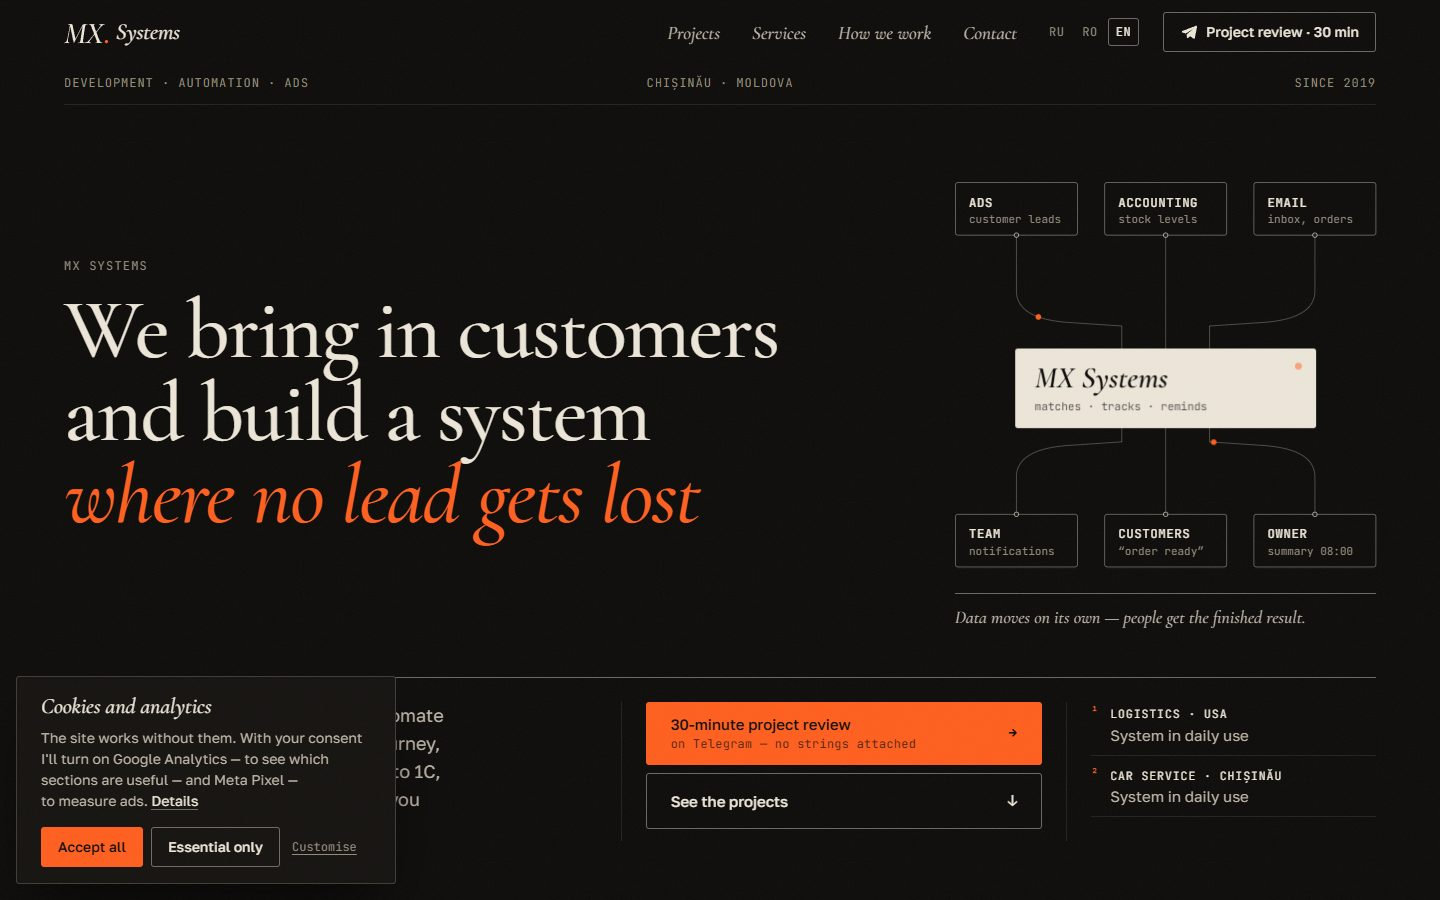
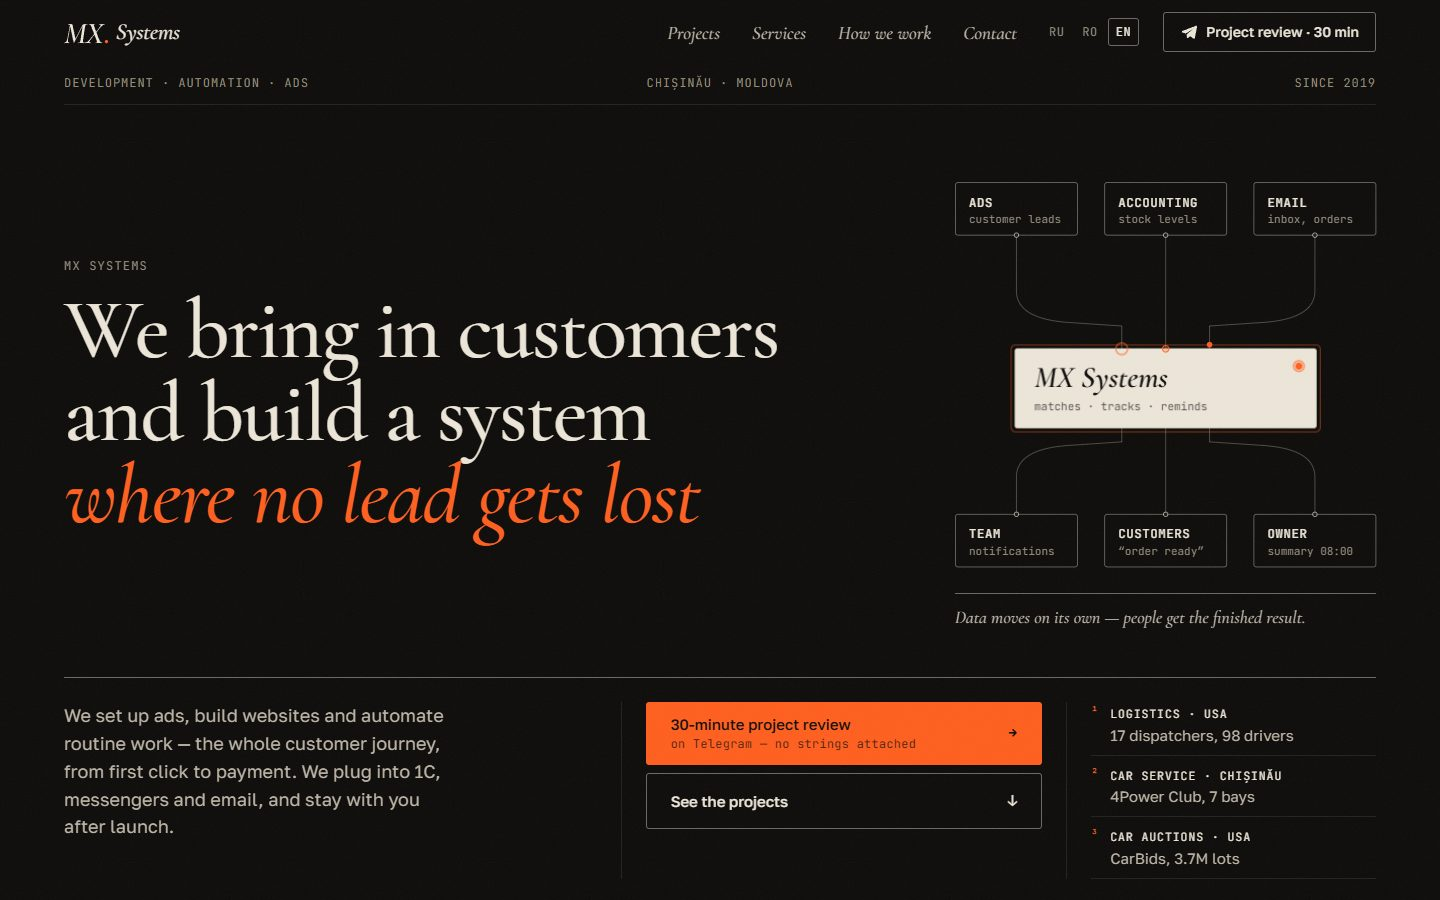
Проверки после правок: seo_check 0 ошибок, сверка содержимого, Lighthouse 99/100, новые скриншоты и compare.html, DECISIONS п. 33–37

diff --git a/docs/screens/compare.html b/docs/screens/compare.html
@@ -15,6 +15,7 @@
 <body>
   <header>
     <h1>MX Systems — старая и новая версии</h1>
+    <p class="upd">Новые скриншоты обновлены 26.10.2026: живая схема (снимок — кадр анимации), три сноски, доска 4Power на телефоне, без cookie-баннера (нет ID счётчиков).</p>
     <div class="bar">
       <div class="group" data-k="lang"><button data-v="ru" class="on">RU</button><button data-v="ro">RO</button><button data-v="en">EN</button></div>
       <div class="group" data-k="dev"><button data-v="desktop" class="on">Десктоп 1440</button><button data-v="mobile">Телефон 390</button></div>

diff --git a/docs/screens/compare.css b/docs/screens/compare.css
@@ -2,6 +2,7 @@
 body { margin: 0; background: #0d0c0a; color: #ece5d8; font: 15px/1.4 system-ui, sans-serif; }
 header { position: sticky; top: 0; z-index: 2; padding: 12px 20px; background: #15130f; border-bottom: 1px solid #333; }
 h1 { margin: 0 0 10px; font-size: 18px; font-weight: 500; }
+.upd { margin: 0 0 10px; font-size: 13px; opacity: 0.7; }
 .bar { display: flex; flex-wrap: wrap; gap: 12px; }
 .group { display: flex; border: 1px solid #444; border-radius: 3px; overflow: hidden; }
 button { padding: 7px 12px; border: 0; background: none; color: inherit; font: inherit; cursor: pointer; }

diff --git a/tools/compare_content.py b/tools/compare_content.py
@@ -84,6 +84,14 @@ for rel in PAGES:
         continue
     so, sn = soup(o), soup(n)
     base = page_url(rel)
+    # Намеренные изменения (DECISIONS.md, п. 33–34) — эти куски старой версии не сравниваем:
+    #   • cookie-баннер и кнопка «Настройки cookie» не выводятся, пока не вписаны ID GA4/Pixel;
+    #   • сноски первого экрана переписаны: вместо двух одинаковых — три с цифрами из кейсов.
+    if not sn.select_one('#cookie'):
+        for el in so.select('#cookie, #cookie-open'):
+            el.decompose()
+    for el in so.select('.notes'):
+        el.decompose()
     # get_text('') — без добавочных пробелов между тегами: типограф оборачивает слова в <span>,
     # и текст «тест-драйва:» не должен превратиться в «тест-драйва :»
     full_new = norm((sn.body or sn).get_text(''))
@@ -104,7 +112,9 @@ for rel in PAGES:
     print(f'{rel:26} текстов {len(texts(so)):4}  ссылок {len(lo):3}  → не найдено: текстов {len(miss_t)}, ссылок {len(miss_l)}, alt {len(miss_alt)}, aria {len(miss_aria)}')
 
 report = ['# Сверка содержимого v1-seo → новая версия', '',
-          'Скрипт: `python tools/compare_content.py .cache/v1 dist`.', '']
+          'Скрипт: `python tools/compare_content.py .cache/v1 dist`.', '',
+          'Намеренно не сравниваются: cookie-баннер и кнопка «Настройки cookie» (не выводятся без ID GA4/Pixel)',
+          'и сноски первого экрана (переписаны) — см. DECISIONS.md, п. 33–34.', '']
 report += ['Расхождений нет.'] if not problems else ['## Расхождения', ''] + [f'- {p}' for p in problems]
 Path('docs/content-diff.md').write_text('\n'.join(report) + '\n', encoding='utf-8')
 print()

diff --git a/DECISIONS.md b/DECISIONS.md
@@ -102,6 +102,7 @@
 28. **Список грузов FastLoad** мягко растворяется внизу (CSS-маска) вместо обрезанной карточки.
 29. **Схема hero**: точки по проводам замедлены (4.4–5.2 с вместо 2.2–2.6 с) и прячутся до старта
     (раньше до начала движения точка висела в углу схемы); ядро «дышит» (scale 1.012, 6 с).
+    *Заменено правками 26.10 — см. п. 35.*
 30. **Lighthouse запускается с русским языком браузера** (`--lang=ru`) и с gzip на тестовом сервере
     (как на GitHub Pages) — иначе русская главная по замыслу уводит «англоязычный» Lighthouse на /en/,
     и измерялась бы не та страница. Старая версия мерилась в тех же условиях.
@@ -109,3 +110,34 @@
     затем seo_check.py по dist/; при ошибке SEO публикации не будет.
 32. **tools/build_images.ps1** перенаправлен на public/assets и src/assets/products. Шаблоны og-картинок
     (tools/og-template.html) не менял — картинки og-image*.png взяты готовые из v1.
+
+## Правки 26.10.2026 (по вашему списку)
+
+33. **Cookie-баннер не выводится, пока нет ID GA4 и Meta Pixel.** ID вынесены в один файл
+    `src/lib/tracking.ts`; без настоящего ID при сборке нет ни баннера, ни кнопки «Настройки cookie»
+    в подвале — спрашивать согласие не на что. Впишите ID → пересоберите → баннер появится сам.
+    Когда баннер есть, на главной он показывается, только когда вводный текст первого экрана ушёл
+    вверх за край экрана (на privacy — сразу). До согласия скрипты всё равно не грузятся,
+    так что спросить чуть позже — законно. Вариант «баннер справа» отверг: на десктопе нижняя полоса
+    hero занята по всей ширине (текст · кнопки · сноски), любой угол что-то закрывает.
+34. **Сноски первого экрана — три конкретные**, тексты взяты из кейсов и карточек сайта:
+    ¹ 4Power Club — **7 постов** (а не 6, как было в задании: на сайте везде «7 постов» —
+    в таблице кейса, на макете доски и в цифрах; ничего не выдумываю, оставил 7 — поправьте, если
+    на самом деле 6, тогда менять во всех местах); ² 17 диспетчеров, 98 водителей; ³ CarBids, 3,7 млн
+    лотов. Третья ведёт на карточку CarBids в «Платформах» (`#prod-carbids` — у карточек появились id).
+    На en порядок как у кейсов: FastLoad первым. RO: «Licitații auto · SUA», «3,7 mil. loturi».
+35. **Живая схема hero — встроенные анимации SVG (SMIL), без библиотек и без JS-цикла кадров.**
+    Один цикл 4 с: три входа по очереди приходят в центр (1.4–2.0 с), в этот момент рамка ядра
+    светится и от оранжевой точки расходится кольцо, затем три выхода уходят вниз (2.0–3.8 с);
+    на каждом узле при приходе точки — вспышка-кольцо. Анимируются только движение по пути,
+    масштаб и прозрачность. Одна точка на линию: с двумя схема выглядела суетливо, а
+    последовательность «вход → центр → выход» читалась хуже. Точка в углу ядра — фирменный
+    оранжевый без мерцания (раньше мигала до 35% и выглядела бледной).
+    Наведение на блок — оранжевая копия провода и рамки проявляется (opacity).
+    Скрипт `src/scripts/scheme.ts`: анимация идёт только пока схема на экране (IntersectionObserver);
+    при «уменьшить движение» время сбрасывается в 0 — схема статична, как раньше.
+    Lighthouse после правок: телефон P 99, десктоп P 100 (TBT 0 мс).
+36. **Доска 4Power на телефоне (до 560px)**: колонки друг под другом, машины по две в ряд,
+    шрифт крупнее — названия больше не переносятся. Машина «переезжает» в «Готова» вниз той же анимацией.
+37. **/ru/** уже была как нужно: meta refresh на «/», canonical на «/», noindex, в sitemap её нет —
+    проверено в dist/, не менял.

diff --git a/docs/REPORT.md b/docs/REPORT.md
@@ -56,8 +56,9 @@
 - **Шапка**: прозрачная → после прокрутки фон с размытием и линия; активный пункт подчёркивается по
   секции на экране; язык — текущий в рамке; кнопка контурная на первом экране и оранжевая после
   прокрутки; на телефоне — полноэкранное меню с крупными пунктами и кнопкой внизу.
-- **Hero**: заголовок крупнее (до 92px), схема: точки-данные медленно бегут по проводам, ядро «дышит»,
-  порты на стыках; сноски-кейсы как примечания. Первый экран 1440×900 помещается целиком;
+- **Hero**: заголовок крупнее (до 92px), живая схема: данные бегут сверху в центр и из центра вниз,
+  узлы вспыхивают при приходе точки, рамка ядра светится в такт, наведение подсвечивает линию блока;
+  анимация идёт только на экране. Три сноски с цифрами кейсов (4Power, FastLoad, CarBids). Первый экран 1440×900 помещается целиком;
   на 390×844 видны заголовок, текст и обе кнопки (над cookie-баннером).
 - **Кейсы**: «Кейс 01» + линия + статус; заголовок и таблица «Клиент/Отрасль/Команда» на сетке 7/5;
   «Что сделали» — ритм линеек и оранжевые маркеры, жирное начало светлее; макеты как настоящий продукт
@@ -76,7 +77,8 @@
 - **FAQ**: плавное раскрытие по высоте, плюс → минус, открыт только один (name="faq").
 - **Контакты**: строки во всю ширину, подсветка и уход стрелки вправо; Telegram оранжевый.
 - **Футер**: крупный знак «MX.», три колонки, нижняя строка с городом и годами.
-- **Cookie**: компактный; на телефоне — узкая полоса, кнопки в один ряд.
+- **Cookie**: не выводится, пока не вписаны ID GA4/Pixel (`src/lib/tracking.ts`); с ID — компактный,
+  на главной появляется, когда вводный текст ушёл с экрана; на телефоне — узкая полоса.
 
 ### Lighthouse (локально, gzip, браузер на русском; телефон = эмуляция медленного 4G)
 
@@ -89,7 +91,8 @@
 | ro, десктоп | 99 / 100 / 100 / 100 · 1.0 с | **100** / 100 / 100 / 100 · 0.4 с |
 | en, десктоп | 99 / 100 / 100 / 100 · 1.0 с | **100** / 100 / 100 / 100 · 0.4 с |
 
-P — скорость, A — доступность, BP — практики, SEO. CLS новой версии 0–0.025. Цель (P ≥ 95, A ≥ 95,
+P — скорость, A — доступность, BP — практики, SEO. CLS новой версии 0–0.025.
+Повторный замер после правок 26.10 (живая схема, три сноски): те же P 99 / 100, A/BP/SEO 100, TBT 0 мс. Цель (P ≥ 95, A ≥ 95,
 BP 100, SEO 100) выполнена на всех 6 замерах. Главный выигрыш — свои шрифты вместо Google Fonts и
 AVIF/WebP. Сырые данные: `docs/lighthouse-old.json`, `docs/lighthouse-new.json` (`node tools/lighthouse.mjs dist`).
 
@@ -97,11 +100,10 @@ AVIF/WebP. Сырые данные: `docs/lighthouse-old.json`, `docs/lighthouse
 - `python tools/seo_check.py dist` → **ошибок нет, замечаний 0** ✓
 - Сверка содержимого `python tools/compare_content.py .cache/v1 dist`: **все тексты, цены и ссылки
   на месте** на трёх языках. 6 намеренных расхождений в подписях для скринридеров (см. DECISIONS п. 23,
-  `docs/content-diff.md`).
+  `docs/content-diff.md`); cookie-баннер и сноски hero не сравниваются — изменены намеренно (п. 33–34).
 - Горизонтальной прокрутки на 390px нет ни на одном языке, ошибок в консоли и нарушений CSP нет
   (`docs/screens/new/report.json`); в dist/ нет встроенных script/style/style="".
-- Design review — 3 круга, `docs/design-review.md`. Что осталось неидеальным: тесная доска 4Power
-  на 390px; cookie-баннер на десктопе закрывает пару строк hero при первом визите; метка «новый»
+- Design review — 4 круга, `docs/design-review.md`. Что осталось неидеальным: метка «новый»
   на старых грузах FastLoad; фото автора лучше заменить студийным портретом.
 
 ---

diff --git a/docs/design-review.md b/docs/design-review.md
@@ -77,3 +77,17 @@
    ровнее с сайтом, но для блока доверия лучше студийный портрет на нейтральном фоне.
 5. Кавычки румынской версии „…” оставлены по правилам румынской типографики (а не «ёлочки»).
 6. Высокий циркумфлекс «â» у Cormorant в румынских заголовках — особенность шрифта.
+
+## Круг 4 — правки 26.10.2026
+
+**Сделано:** живая схема hero (точки по 6 линиям, вспышки на узлах, свечение ядра, наведение
+подсвечивает линию, пауза вне экрана, статично при «уменьшить движение»); три сноски с цифрами
+вместо двух одинаковых; доска 4Power на телефоне — колонки друг под другом, машины по две в ряд;
+cookie-баннер без ID счётчиков не выводится, а с ID — не закрывает вводный текст.
+
+**Проверено (Playwright):** кадры анимации на 1.45 / 2.15 / 3.45 с — точки на проводах, кольца
+на узлах, свечение ядра; наведение на «Владелец» подсвечивает его линию; при reduce — время 0,
+видимых точек и колец 0; при прокрутке вниз `animationsPaused() = true`; на 390px горизонтальной
+прокрутки нет; сноски ведут на #case-4power, #case-fastload, #prod-carbids.
+
+**Закрыто из «неидеального» круга 3:** п. 1 (тесная доска) и п. 2 (баннер поверх текста).

diff --git a/docs/content-diff.md b/docs/content-diff.md
@@ -2,6 +2,9 @@
 
 Скрипт: `python tools/compare_content.py .cache/v1 dist`.
 
+Намеренно не сравниваются: cookie-баннер и кнопка «Настройки cookie» (не выводятся без ID GA4/Pixel)
+и сноски первого экрана (переписаны) — см. DECISIONS.md, п. 33–34.
+
 ## Расхождения
 
 - index.html: aria-label не найден: «Разбор задачи в Telegram»
